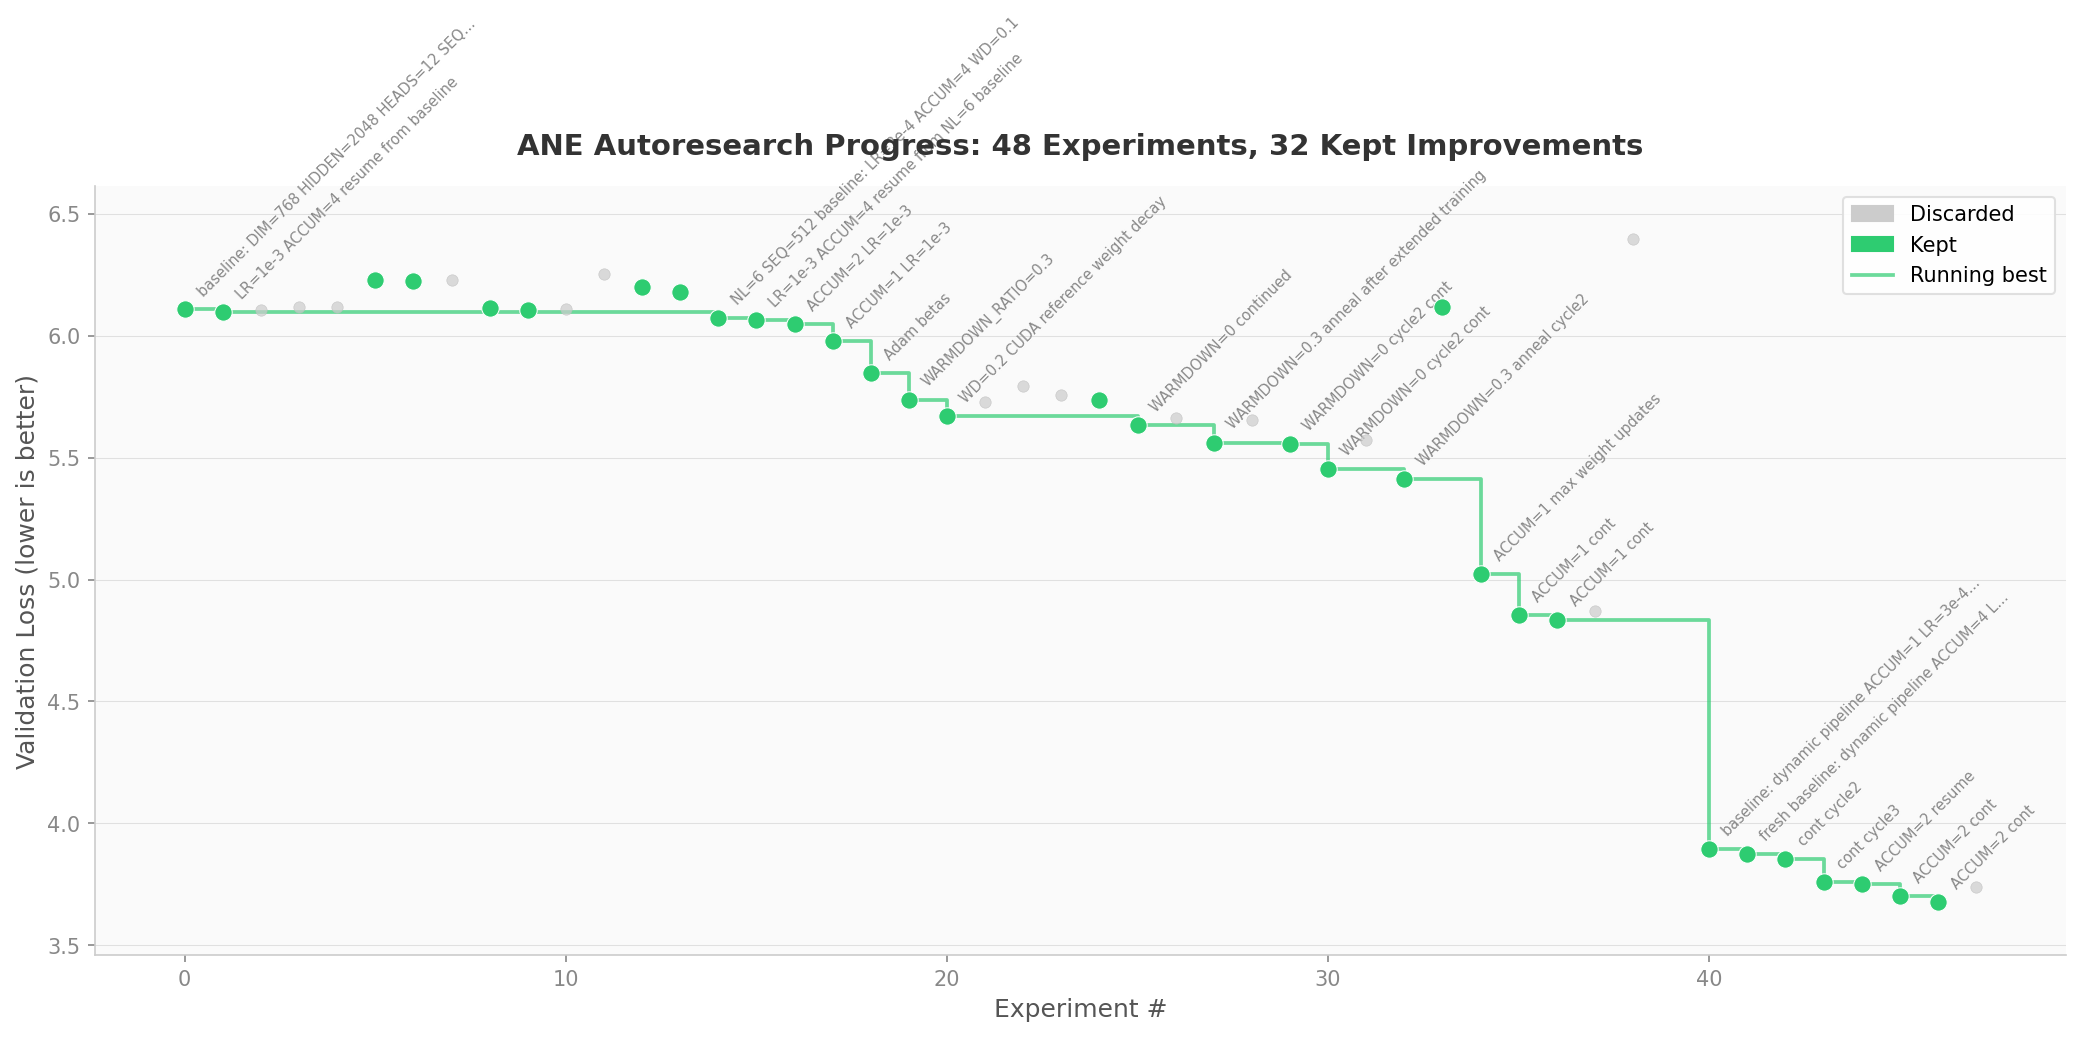
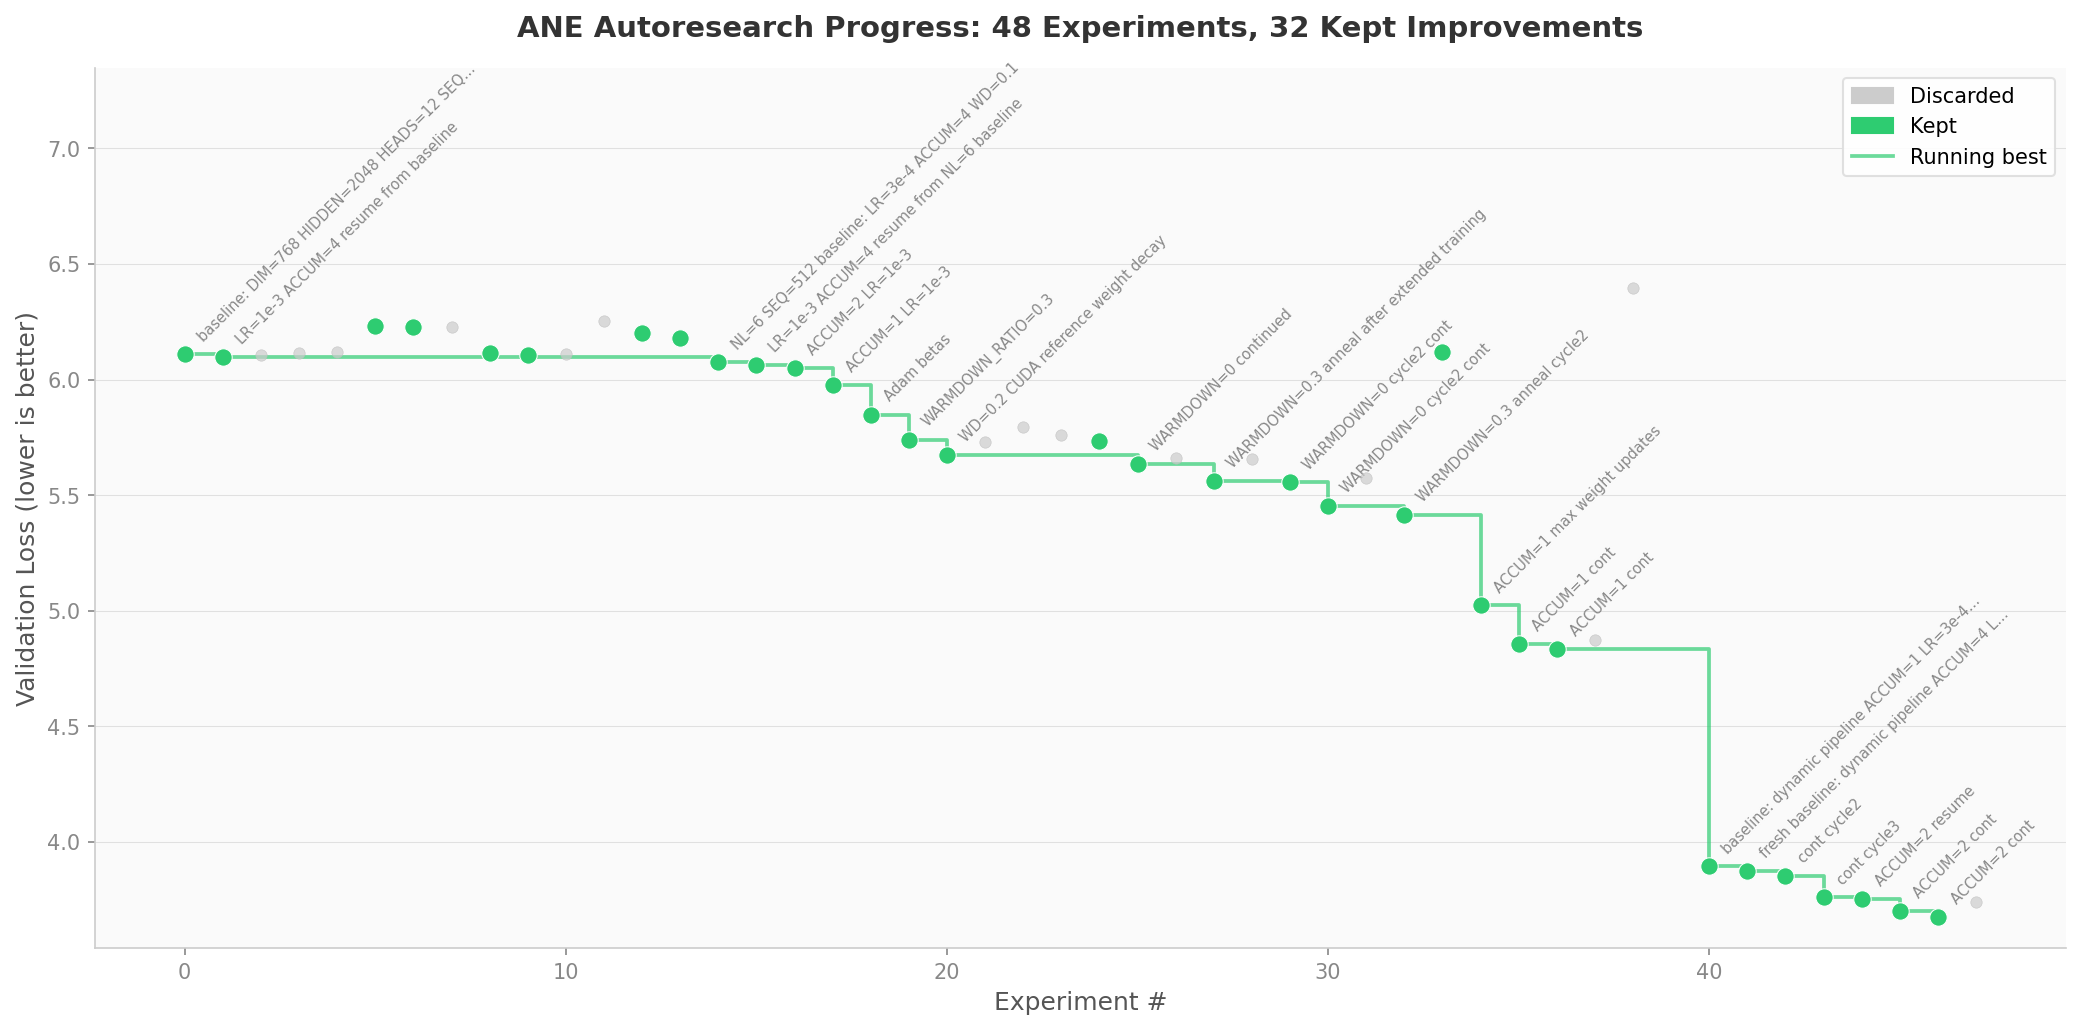
Chart: add vertical headroom for 45-degree labels

diff --git a/plot_progress.py b/plot_progress.py
@@ -95,8 +95,7 @@ ax.legend(handles=legend, fontsize=10, loc='upper right',
 valid_ys = [y for y in ys if y < 8]
 if valid_ys:
     ymin, ymax = min(valid_ys), max(valid_ys)
-    pad = (ymax - ymin) * 0.08
-    ax.set_ylim(ymin - pad, ymax + pad)
+    ax.set_ylim(ymin - (ymax - ymin) * 0.05, ymax + (ymax - ymin) * 0.35)
 
 plt.tight_layout()
 plt.savefig('progress.png', dpi=150, bbox_inches='tight', facecolor='white')
